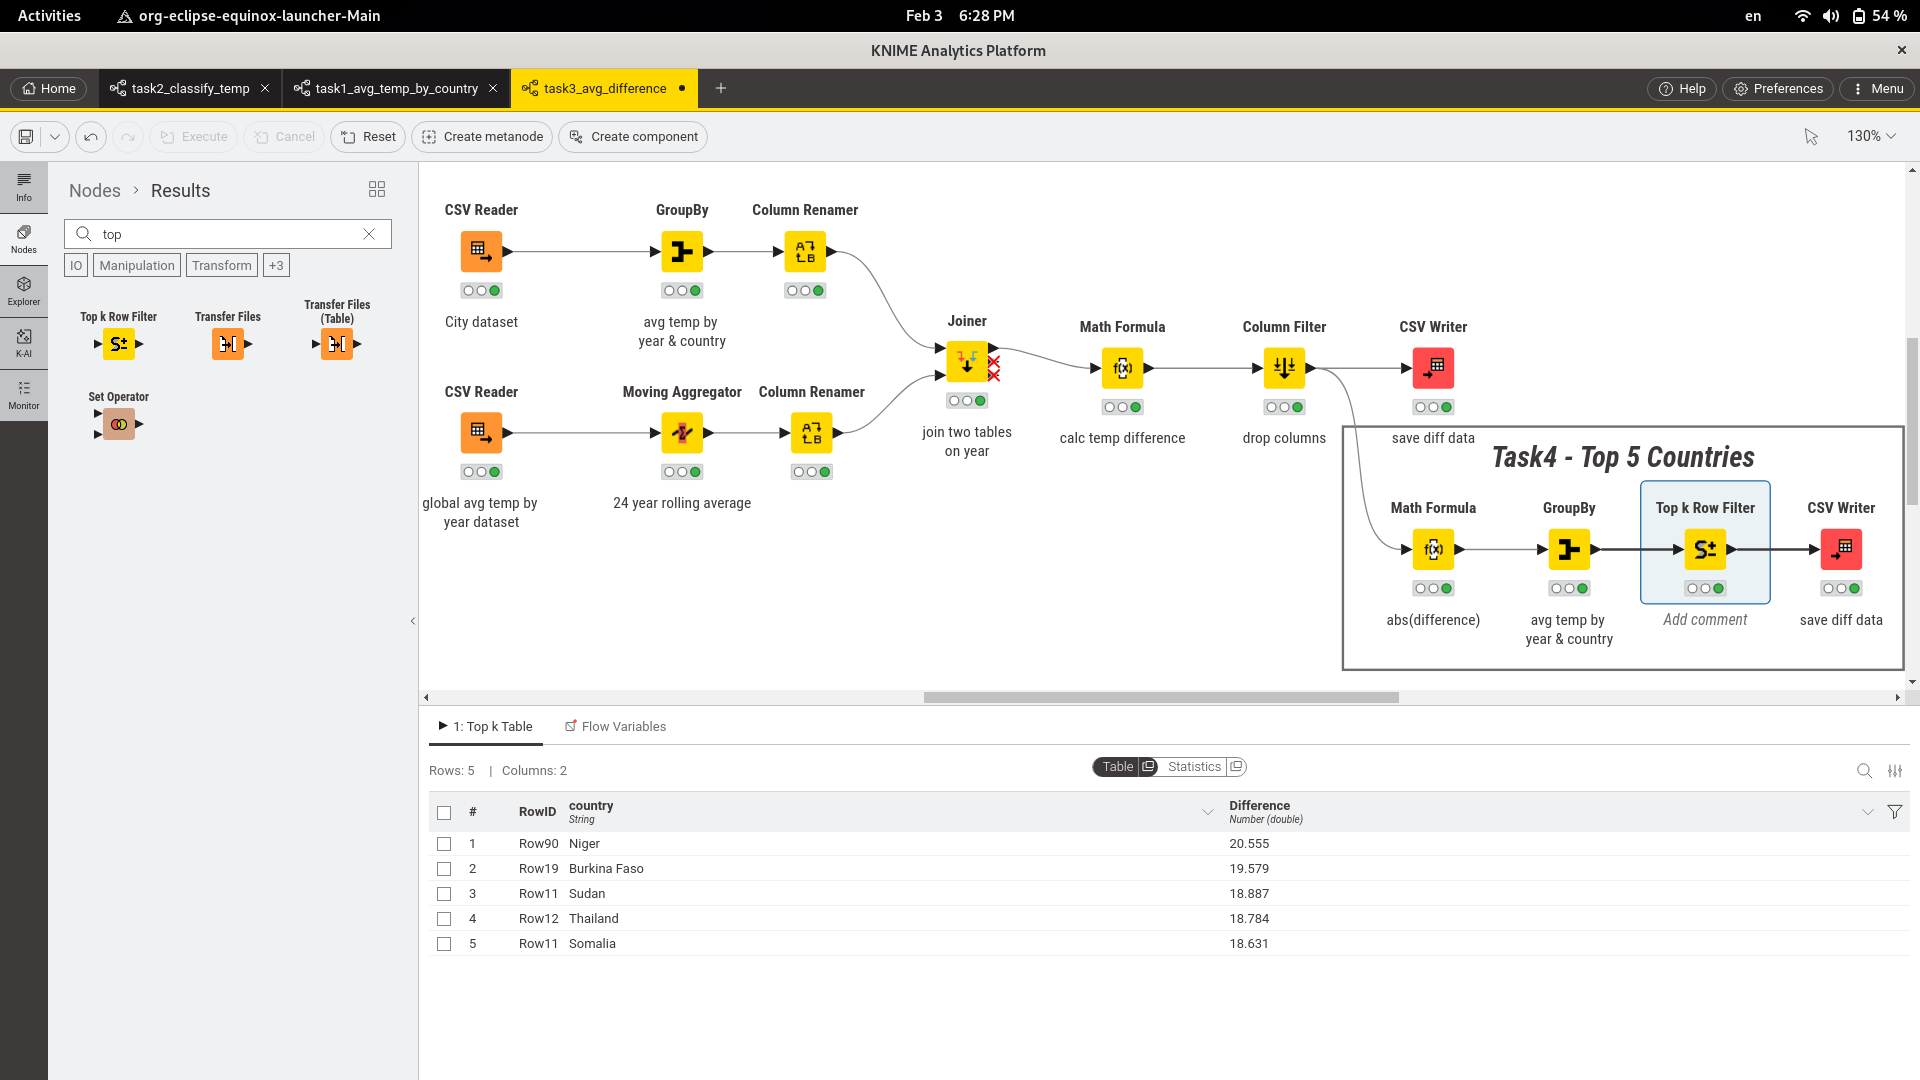
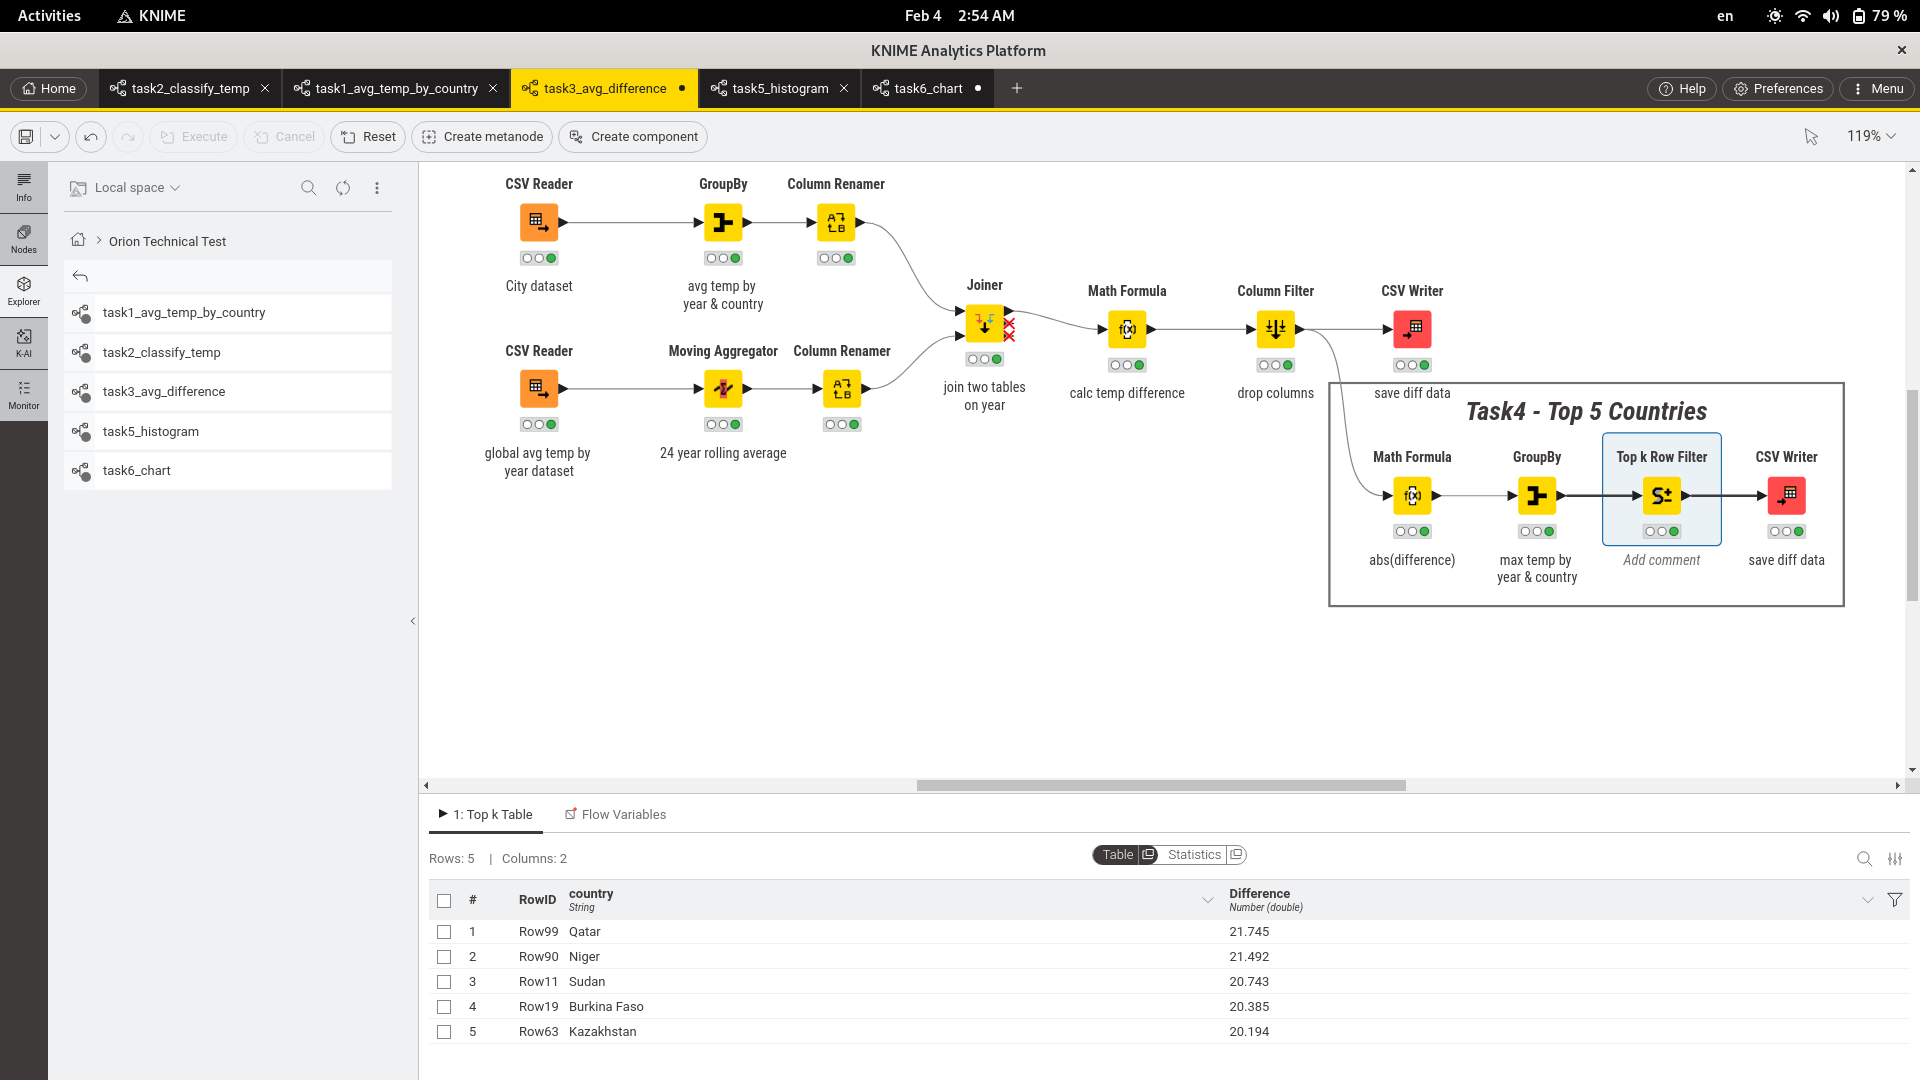
aggrecate with max instaid of mean in task4

diff --git a/README.md b/README.md
@@ -146,9 +146,10 @@ The saved output difference csv files for the two approaches:
 ### 4- Output a table that shows the top 5 countries that have the largest difference from the global Temp
 - In `task3_avg_difference` workflow for this task:
 
-- This question is a bit unclear, top 5 distinct countries for each year? or we take the average of each country across all years and take the top 5 of those ?
-- And since I emailed and got no answer to clarify this, I will go with the second assumption.
-I used the same workflow of task3 and added the lower left part for task4.
+- This question is a bit unclear, top 5 distinct countries for each year? or we take the average of each country across all years and take the top 5 of those ? or we get the maximum of each country across all years and take the top 5 of those.
+- And since I emailed and got no answer to clarify this, I will go with the last assumption.
+
+I used the same workflow of task3 and added the lower left part for task4, I used `max` as an aggregation method in the `GroupBy` node after taking the absolute value with `Math Formula` node to account for negative differences values.
 
 ![](images/task4/t4_knime_top_diff.png)
 
